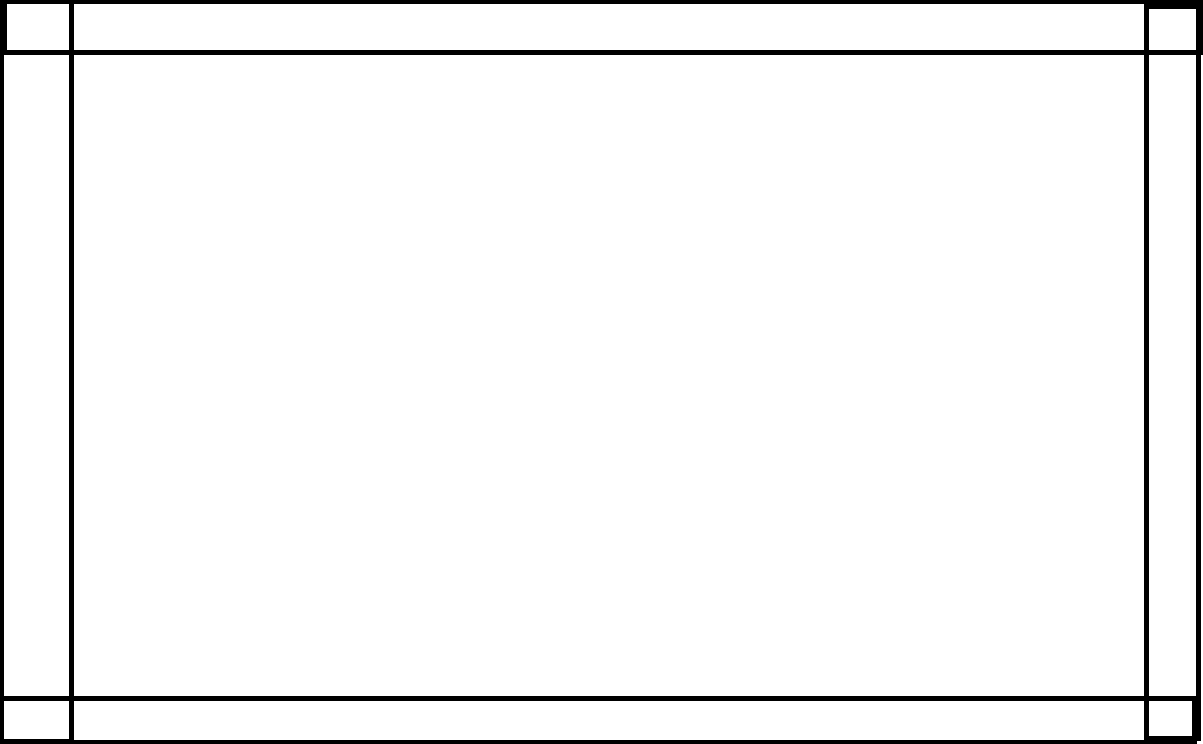
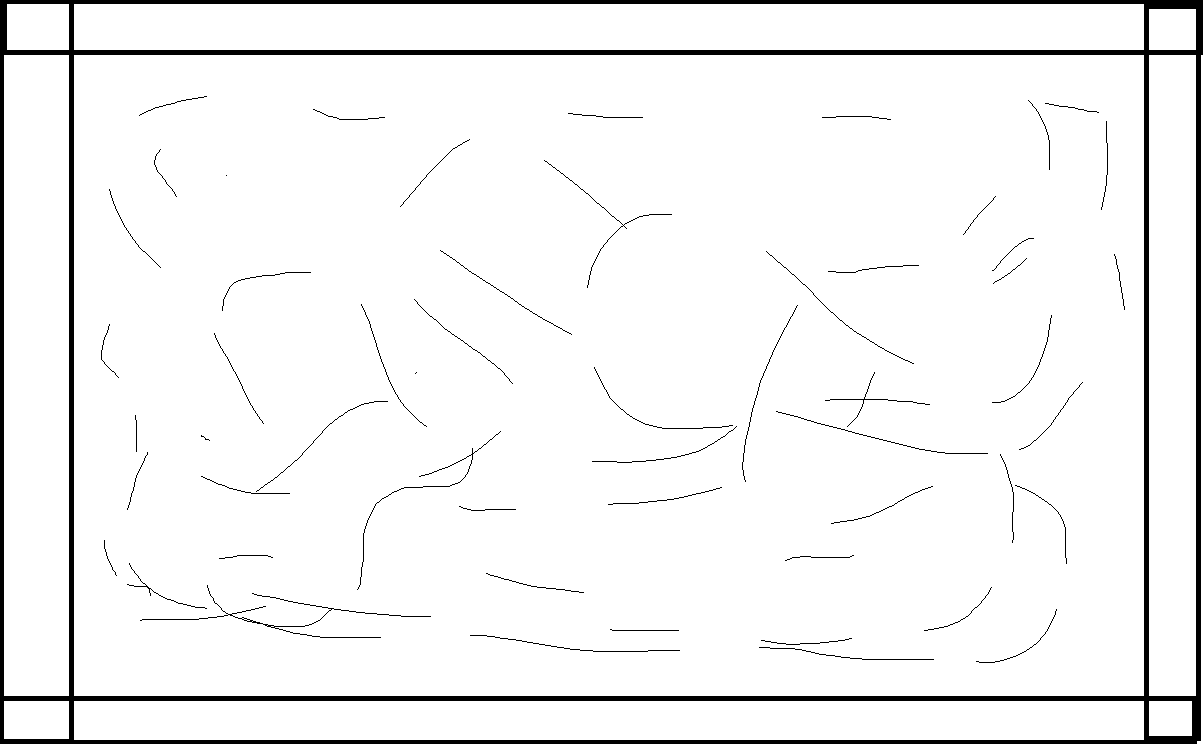
First minigame !

diff --git a/Assets/Scripts/CatAndMices.cs b/Assets/Scripts/CatAndMices.cs
@@ -1,120 +1,124 @@
-	using UnityEngine;
-	using System.Collections;
+		using UnityEngine;
+		using System.Collections;
 
-	public class CatAndMices : MonoBehaviour 
-	{
-
-		public float m_Duration = 30.0f;
-		float m_time = 0.0f;
-
-		public Sprite teamBlue;
-		public Sprite teamRed;
-
-		GameObject[] m_players;
-		GameObject m_cat;
-
-		public float m_NewCatSpeed = 15.0f;
-		private float m_previousSpeed = 0.0f;
-
-		public string Phrase;
-
-		// Use this for initialization
-		void OnEnable () 
+		public class CatAndMices : MonoBehaviour 
 		{
-			
-			m_time = 0.0f;
 
-			m_players = GameObject.FindGameObjectsWithTag("Player");
+			public float m_Duration = 30.0f;
+			float m_time = 0.0f;
 
-			m_cat = m_players[Random.Range(0,m_players.Length)];
-			//Init the cat (don't forget to desinit !!!!)
-			m_previousSpeed = m_cat.GetComponent<Control>().m_maxSpeed;
-			m_cat.GetComponent<Control>().m_maxSpeed = m_NewCatSpeed;
-			m_cat.GetComponent<Control>().m_canDash = false;
+			public Sprite teamBlue;
+			public Sprite teamRed;
 
-			foreach(GameObject p in m_players)
+			GameObject[] m_players;
+			GameObject m_cat;
+
+			public float m_NewCatSpeed = 15.0f;
+			private float m_previousSpeed = 0.0f;
+
+			public string Phrase;
+
+			// Use this for initialization
+			void OnEnable () 
 			{
 				
-				if(p == m_cat)
-				{
-					p.gameObject.layer = LayerMask.NameToLayer("cat");
-					foreach (Transform t in p.transform)
-					{
-						if(t.name == "Team")
-						{
-							t.GetComponent<SpriteRenderer>().enabled = true;
-							t.GetComponent<SpriteRenderer>().sprite = teamRed;
-						}
-					}
-				}
-				else//C'est les souris
-				{
-				p.gameObject.layer = LayerMask.NameToLayer("mouse");
-					foreach (Transform t in p.transform)
-					{
-						if(t.name == "Team")
-						{
-							t.GetComponent<SpriteRenderer>().enabled = true;
-							t.GetComponent<SpriteRenderer>().sprite = teamBlue;
-						}
-					}
-				}
-			}
-		}
-		
-		// Update is called once per frame
-		void Update () 
-		{
-		
-			m_time+= Time.deltaTime;
-			if(m_time >= m_Duration)
-			{
-				this.enabled = false;
-			}
-		}
+				m_time = 0.0f;
 
-		void OnDisable () 
-		{
-			if(m_cat != null)
-			{
-				m_cat.GetComponent<Control>().m_maxSpeed = m_previousSpeed ;
-				m_cat.GetComponent<Control>().m_canDash = true;
+				m_players = GameObject.FindGameObjectsWithTag("Player");
+
+				m_cat = m_players[Random.Range(0,m_players.Length)];
+				//Init the cat (don't forget to desinit !!!!)
+				m_previousSpeed = m_cat.GetComponent<Control>().m_maxSpeed;
+				m_cat.GetComponent<Control>().m_maxSpeed = m_NewCatSpeed;
+				m_cat.GetComponent<Control>().m_canDash = false;
+
+				foreach(GameObject p in m_players)
+				{
+					
+					if(p == m_cat)
+					{
+						p.gameObject.layer = LayerMask.NameToLayer("cat");
+						foreach (Transform t in p.transform)
+						{
+							if(t.name == "Team")
+							{
+								t.GetComponent<SpriteRenderer>().enabled = true;
+								t.GetComponent<SpriteRenderer>().sprite = teamRed;
+							}
+						}
+					}
+					else//C'est les souris
+					{
+					p.gameObject.layer = LayerMask.NameToLayer("mouse");
+						foreach (Transform t in p.transform)
+						{
+							if(t.name == "Team")
+							{
+								t.GetComponent<SpriteRenderer>().enabled = true;
+								t.GetComponent<SpriteRenderer>().sprite = teamBlue;
+							}
+						}
+					}
+				}
+			}
 			
-
-			foreach(GameObject p in m_players)
+			// Update is called once per frame
+			void Update () 
 			{
-				p.gameObject.layer = 0;
-				if(p == m_cat)
+			
+				m_time+= Time.deltaTime;
+				if(m_time >= m_Duration)
 				{
-					foreach (Transform t in p.transform)
-					{
-						if(t.name == "Team")
-						{
-							t.GetComponent<SpriteRenderer>().enabled = false;
-							//t.GetComponent<SpriteRenderer>().sprite = teamRed;
-						}
-					}
+					this.enabled = false;
 				}
-				else//C'est les souris
-				{
-					foreach (Transform t in p.transform)
-					{
-						if(t.name == "Team")
-						{
-							t.GetComponent<SpriteRenderer>().enabled = false;
-							//t.GetComponent<SpriteRenderer>().sprite = teamBlue;
-						}
-					}
-				}
-			}//foreach
-
-
-
-			transform.GetComponent<ObjectiveManager>().currentObjective = ObjectiveManager.eObjectives.NONE;
-			transform.GetComponent<ObjectiveManager>().m_needDisplayTimesUp = true;
-
-
-
 			}
-		}
+
+			void OnDisable () 
+			{
+				if(m_cat != null)
+				{
+					m_cat.GetComponent<Control>().m_maxSpeed = m_previousSpeed ;
+					m_cat.GetComponent<Control>().m_canDash = true;
+				
+
+					foreach(GameObject p in m_players)
+					{
+						p.gameObject.layer = 0;
+						if(!p.gameObject.GetComponent<Dead>().isDead && p.gameObject != m_cat )
+						{
+							p.GetComponent<PlayerScore>().AddScore(1000);
+						}
+
+						p.gameObject.GetComponent<Dead>().isDead = false;
+						if(p == m_cat)
+						{
+							foreach (Transform t in p.transform)
+							{
+								if(t.name == "Team")
+								{
+									t.GetComponent<SpriteRenderer>().enabled = false;
+									//t.GetComponent<SpriteRenderer>().sprite = teamRed;
+								}
+							}
+						}
+						else//C'est les souris
+						{
+							foreach (Transform t in p.transform)
+							{
+								if(t.name == "Team")
+								{
+									t.GetComponent<SpriteRenderer>().enabled = false;
+									//t.GetComponent<SpriteRenderer>().sprite = teamBlue;
+								}
+							}
+						}
+					}//foreach
+
+					
+
+					transform.GetComponent<ObjectiveManager>().currentObjective = ObjectiveManager.eObjectives.NONE;
+					transform.GetComponent<ObjectiveManager>().m_needDisplayTimesUp = true;
+				}
+			}
+	
 	}

diff --git a/Assets/Scripts/InGameInterface.cs b/Assets/Scripts/InGameInterface.cs
@@ -124,8 +124,8 @@ public class InGameInterface : MonoBehaviour {
         }
         else
         {
-            GUI.Box(new Rect(Screen.width/2 - 300.0f/2, Screen.height/2 - 60.0f/2, 300.0f, 60.0f), "Player " + GameObject.Find("PlayersManager").GetComponent<PlayerManager>().m_playerWinner.GetComponent<PlayerID>().GetPlayerID().ToString() + " Win !!");
-            GUI.Box(new Rect(Screen.width / 2 - 300.0f / 2, Screen.height / 2 - 100.0f / 2 + 100.0f, 300.0f, 100.0f), "Start to Restart\nB to Menu");
+            //GUI.Box(new Rect(Screen.width/2 - 300.0f/2, Screen.height/2 - 60.0f/2, 300.0f, 60.0f), "Player " + GameObject.Find("PlayersManager").GetComponent<PlayerManager>().m_playerWinner.GetComponent<PlayerID>().GetPlayerID().ToString() + " Win !!");
+            //GUI.Box(new Rect(Screen.width / 2 - 300.0f / 2, Screen.height / 2 - 100.0f / 2 + 100.0f, 300.0f, 100.0f), "Start to Restart\nB to Menu");
         
         }
 

diff --git a/Assets/Scripts/Player/CollisionDetection.cs b/Assets/Scripts/Player/CollisionDetection.cs
@@ -1,7 +1,7 @@
 using UnityEngine;
 using System.Collections;
 
-public class collisionDetection : MonoBehaviour 
+public class CollisionDetection : MonoBehaviour 
 {
 
 	PlayerScore score;
@@ -20,8 +20,9 @@ public class collisionDetection : MonoBehaviour
 	{
 		if (coll.gameObject.layer == LayerMask.NameToLayer("mouse"))
 		{
-
+			Debug.Log("Collision");
 			coll.gameObject.GetComponent<Dead>().isDead = true;
+			GetComponent<PlayerScore>().AddScore(1000);
 		}
 	}
 }

diff --git a/Assets/Scripts/Player/Dead.cs b/Assets/Scripts/Player/Dead.cs
@@ -17,12 +17,15 @@ public class Dead : MonoBehaviour {
 		if(isDead)
 		{
 			collider2D.enabled = false;
+			transform.GetChild(1).GetComponent<SpriteRenderer>().enabled = false;// transform.localScale.Set(0.5f,0.5f,0.0f);
 		}
 		else 
 		{
 			if(collider2D.enabled == false)
 			{
 				collider2D.enabled = true;
+				transform.GetChild(1).GetComponent<SpriteRenderer>().enabled = true;
+				//transform.GetChild(1).transform.localScale.Set(1.0f,1.0f,0.0f);
 			}
 			
 		}
